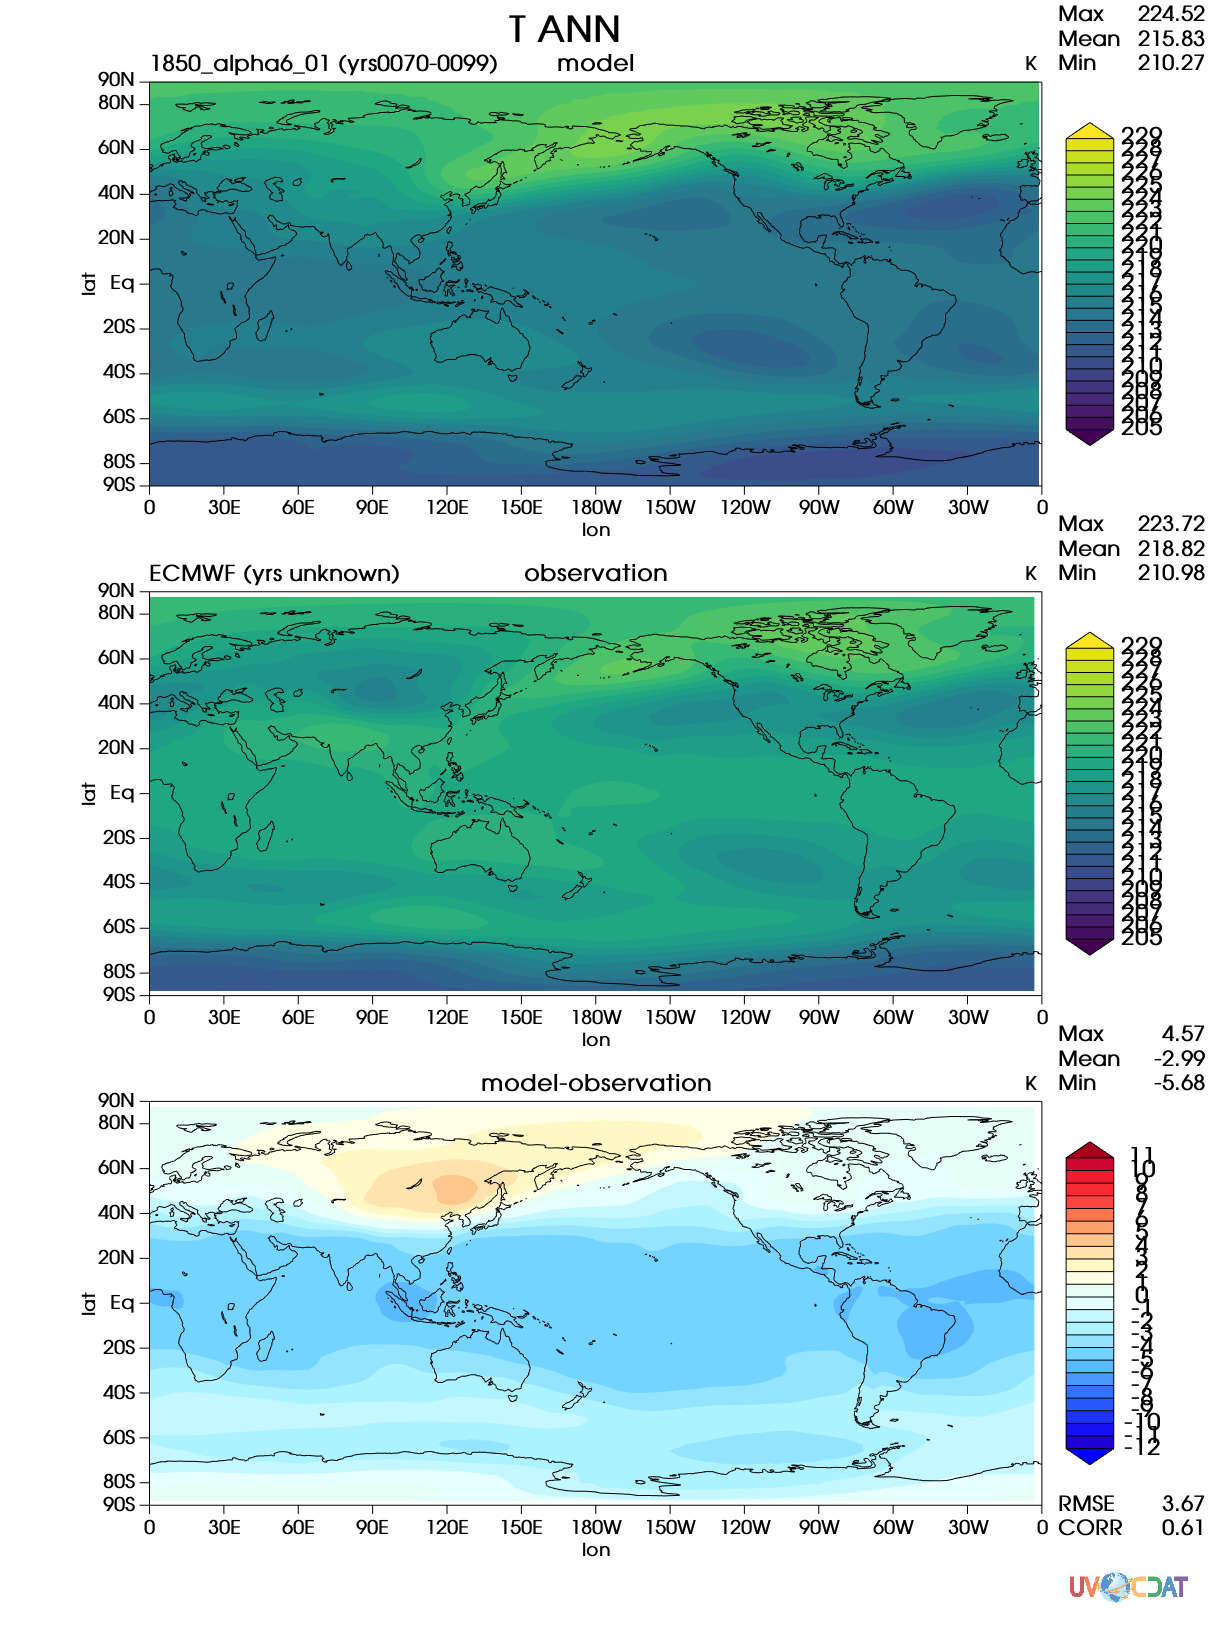
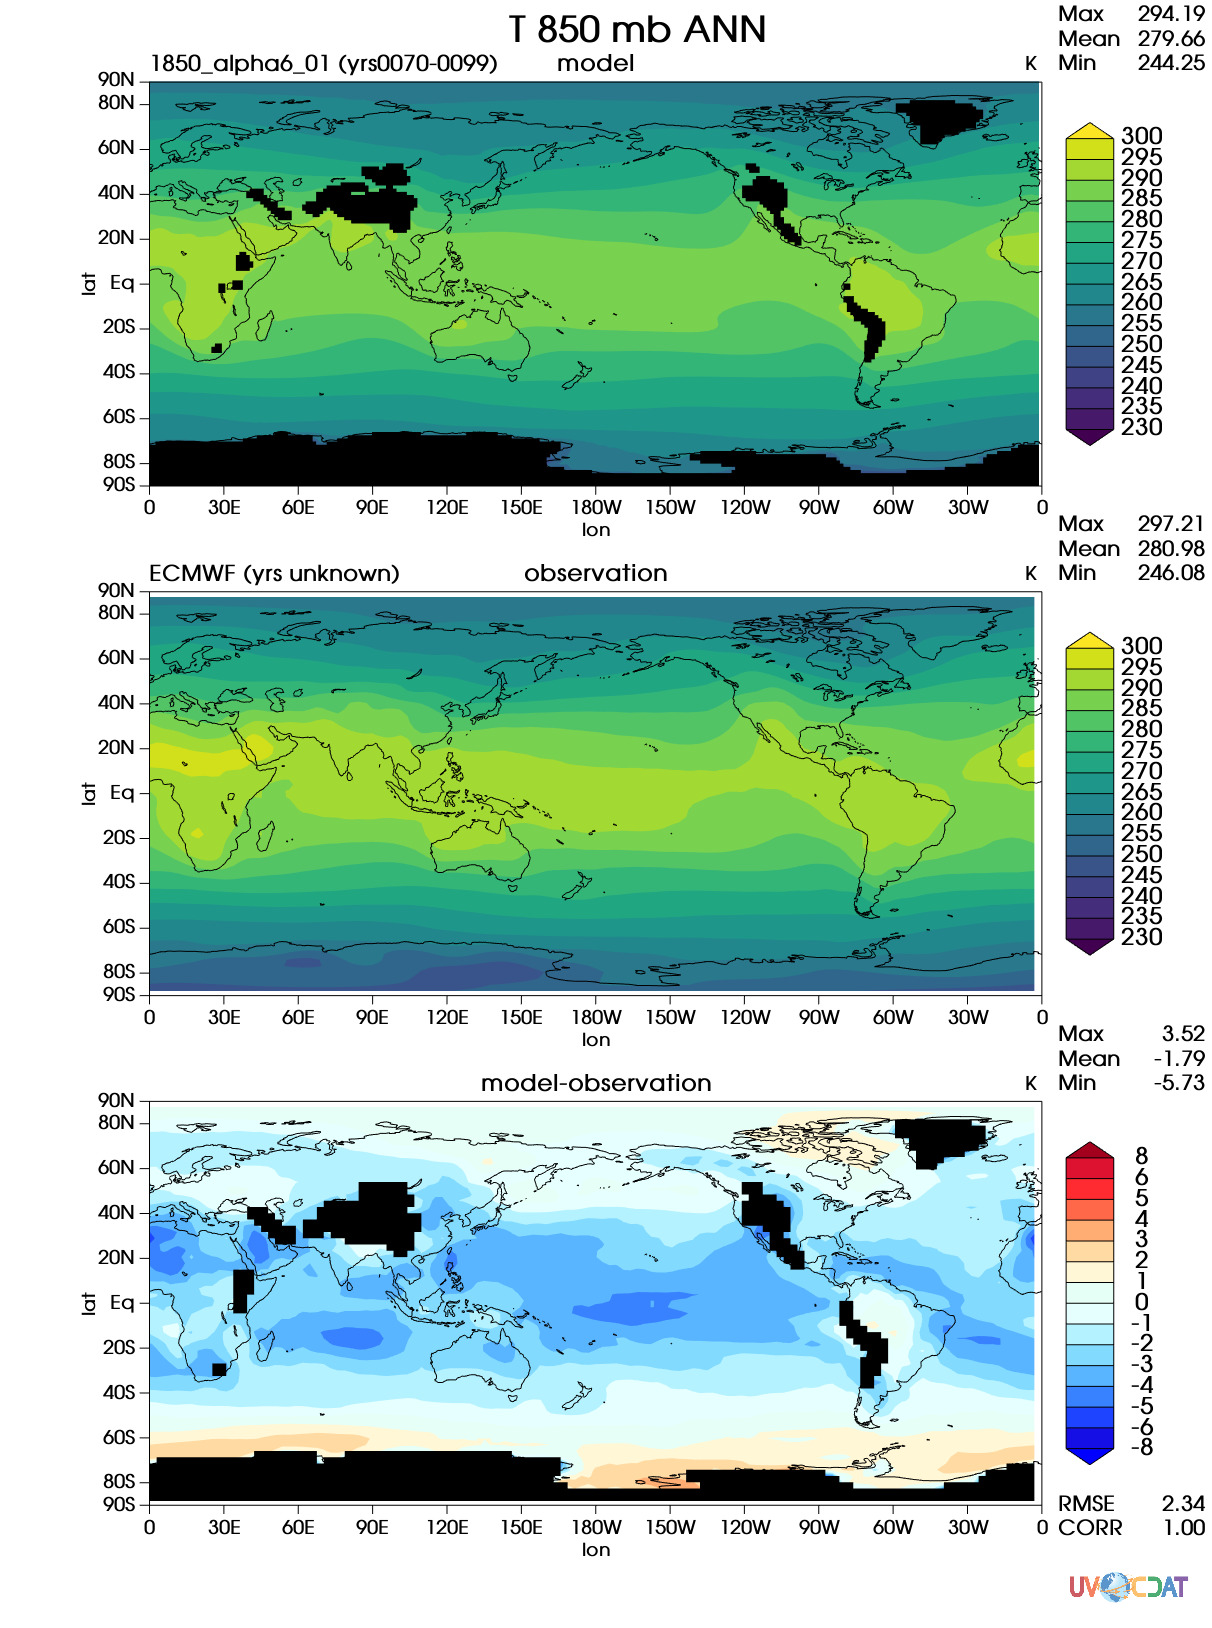
both T850 200 mb working

diff --git a/acme_diags/plotset5/set5_ANN_PRECT_GPCP_model.py b/acme_diags/plotset5/set5_ANN_PRECT_GPCP_model.py
@@ -117,10 +117,12 @@ if mod_pr.ndim == 4: # var(time,lev,lon,lat) convert from hybrid level to pressu
 
     obs_plv = obs_pr.getLevel()[:]
     
-    # set the level to compare
-    plev = 200 #mb
+    # set the level to compare, this should be a parameter
+    plev = 850 #mb
+
     plev_ind = plv17.tolist().index(plev)
     mod_pr = mod_pr_p[:,plev_ind,:,:]
+
     plev_ind = obs_plv.tolist().index(plev)
     obs_pr = obs_pr[:,plev_ind,:,:]
 
@@ -173,7 +175,10 @@ isofill.datawc_y2 = 90
 if var == 'PRECT':
     isofill.levels = [0, 0.2, 0.5, 1, 2, 3, 4, 5, 6, 7, 8, 9, 10, 12, 14, 17]
 elif var == 'T':
-    isofill.levels = range(205,230)
+    if plev == 850:
+        isofill.levels =[230, 235, 240, 245, 250, 255, 260, 265, 270, 275, 280, 285, 290, 295, 300]
+    elif plev == 200:
+        isofill.levels = [190, 193, 196, 199, 202, 205, 208, 211, 214, 217, 220, 223, 226, 229, 232]
 # NOTE: because of the obs and model data files used,
 # there is no 360 degree value, so we use 358 as 0.
 # Same for 0 where we use 2 instead.
@@ -194,7 +199,11 @@ x.plot(mod_pr, template_0, isofill)
 x.plot(obs_pr, template_1, isofill)
 
 # Create main title for the 3 plots
-plot_text(x, ' '.join([var, season]), 0.42, 0.98, 18, "left")
+
+if var == 'PRECT':
+    plot_text(x, ' '.join([var, season]), 0.42, 0.98, 18, "left")
+elif var == 'T':
+    plot_text(x, ' '.join([var,str(plev),'mb', season]), 0.42, 0.98, 18, "left")
 
 # difference graph
 isofill = x.createisofill()
@@ -206,7 +215,10 @@ isofill.datawc_y2 = 90
 if var == 'PRECT':
     isofill.levels=[-6, -5, -4, -3, -2, -1, -0.5, 0, 0.5, 1, 2, 3, 4, 5, 6]
 elif var == 'T':
-    isofill.levels = range(-12,12)
+    if plev == 850:
+        isofill.levels =[-8, -6, -5, -4, -3, -2, -1, 0, 1, 2, 3, 4, 5, 6, 8]
+    elif plev == 200:
+        isofill.levels =[-10, -8, -6, -4, -3, -2, -1, 0, 1, 2, 3, 4, 6, 8, 10] 
 #isofill.levels=vcs.mkscale(dif_pr.min(), dif_pr.max())
 isofill.ext_1 = True
 isofill.ext_2 = True
